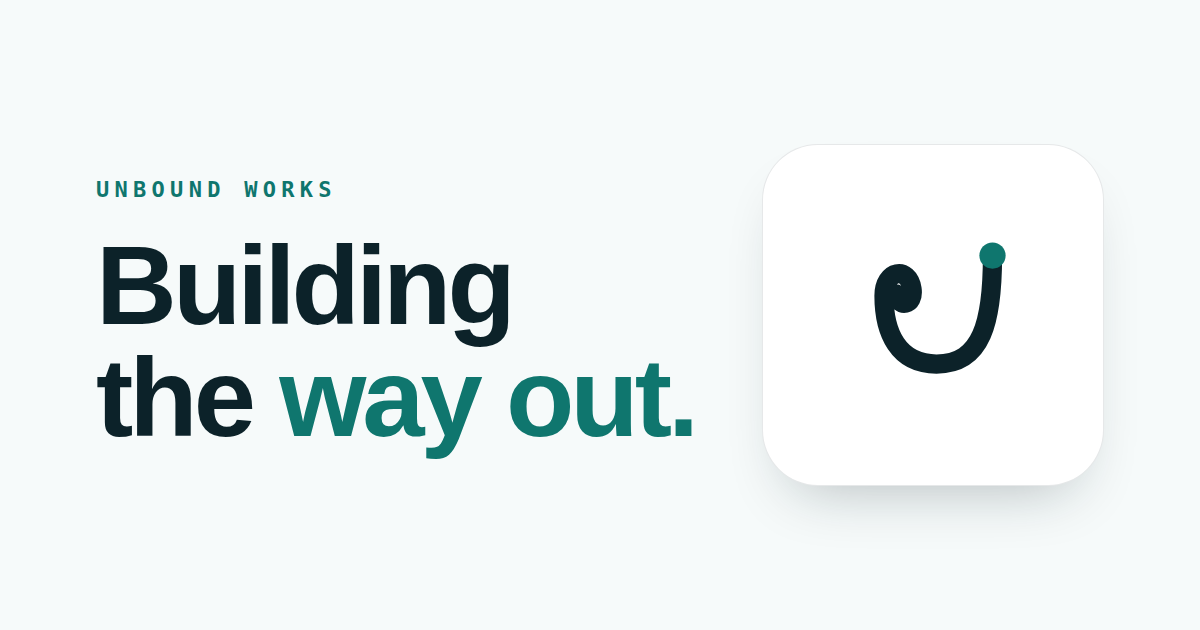
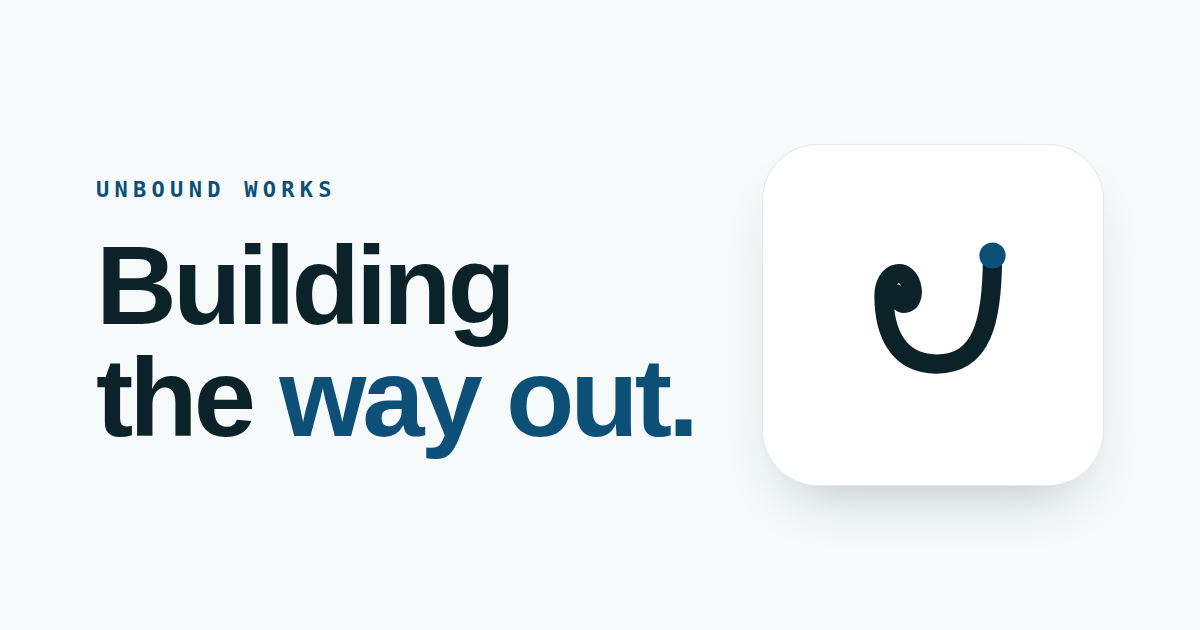
Change accent to rgb(12,80,120)
Claude-Session: https://claude.ai/code/session_01HV6CUxVNmo16z2FbVjRH5F

diff --git a/styles.css b/styles.css
@@ -1,6 +1,6 @@
 /* ============================================================
    Unbound Works — sleek modern revamp
-   Calm precision: cool white, ink, one teal accent. CSS-only motion.
+   Calm precision: cool white, ink, one blue accent. CSS-only motion.
    ============================================================ */
 
 :root{
@@ -15,10 +15,10 @@
   --muted:#5B7076;
 
   /* signal */
-  --accent:#0F766E;        /* medium dark teal */
+  --accent:#0C5078;        /* medium dark blue */
   --accent-ink:#FFFFFF;    /* text on accent fills */
-  --accent-2:#0F766E;      /* labels */
-  --accent-d:#0B5F58;      /* hover */
+  --accent-2:#0C5078;      /* labels */
+  --accent-d:#093E5D;      /* hover */
   --shadow:0 24px 48px -28px rgba(12,34,41,.28);
 
   /* lines + radii */
@@ -58,7 +58,7 @@ img,svg{display:block}
 body::before{
   content:"";position:fixed;inset:0;z-index:-1;pointer-events:none;
   background:
-    radial-gradient(620px 620px at 80% 28%,rgba(15,118,110,.10),transparent 64%);
+    radial-gradient(620px 620px at 80% 28%,rgba(12,80,120,.10),transparent 64%);
 }
 
 /* focus visibility */
@@ -178,7 +178,7 @@ h1{font-size:clamp(3.2rem,8.4vw,6.4rem);line-height:.98;letter-spacing:-.03em}
 }
 .cell::before{ /* hover sheen */
   content:"";position:absolute;inset:0;pointer-events:none;opacity:0;
-  background:linear-gradient(130deg,transparent 40%,rgba(15,118,110,.05) 55%,transparent 70%);
+  background:linear-gradient(130deg,transparent 40%,rgba(12,80,120,.05) 55%,transparent 70%);
   transition:opacity .4s var(--ease);
 }
 .cell:hover{transform:translateY(-5px);border-color:var(--hairline-2);box-shadow:var(--shadow)}
@@ -186,7 +186,7 @@ h1{font-size:clamp(3.2rem,8.4vw,6.4rem);line-height:.98;letter-spacing:-.03em}
 .cell h3{font-size:clamp(1.5rem,2.3vw,1.9rem);line-height:1.1;margin-bottom:12px}
 .cell p{color:var(--ink-soft);font-size:1rem;max-width:46ch}
 .c-soft{grid-column:span 3;background:
-  linear-gradient(155deg,rgba(15,118,110,.12),var(--surface) 70%)}
+  linear-gradient(155deg,rgba(12,80,120,.12),var(--surface) 70%)}
 .c-ai{grid-column:span 3}
 .c-ops{grid-column:span 6;background:
   linear-gradient(120deg,var(--surface-2),var(--surface) 60%)}
@@ -209,10 +209,10 @@ h1{font-size:clamp(3.2rem,8.4vw,6.4rem);line-height:.98;letter-spacing:-.03em}
 .cap-media{
   border-radius:var(--r-card);min-height:280px;position:relative;overflow:hidden;
   border:1px solid var(--hairline);
-  background:linear-gradient(150deg,rgba(15,118,110,.14),var(--surface) 72%);
+  background:linear-gradient(150deg,rgba(12,80,120,.14),var(--surface) 72%);
 }
 .cap.flip .cap-media{background:linear-gradient(150deg,var(--surface-2),var(--surface) 70%)}
-.cap-media.alt{background:linear-gradient(150deg,rgba(15,118,110,.07),var(--surface-2) 70%)}
+.cap-media.alt{background:linear-gradient(150deg,rgba(12,80,120,.07),var(--surface-2) 70%)}
 .cap-media .wm{position:absolute;right:-30px;bottom:-50px;width:250px;opacity:.14}
 .cap-media .wm path{fill:none;stroke:var(--ink);stroke-width:22;stroke-linecap:round;stroke-linejoin:round}
 .worklist{list-style:none;margin-top:26px;display:flex;flex-wrap:wrap;gap:10px}
@@ -293,7 +293,7 @@ h1{font-size:clamp(3.2rem,8.4vw,6.4rem);line-height:.98;letter-spacing:-.03em}
 .contact-card h2{font-size:clamp(2.2rem,4.8vw,3.6rem);line-height:1.04}
 .contact-card p{color:rgba(255,255,255,.85);font-size:1.15rem;margin:20px auto 32px;max-width:46ch;font-family:var(--sans)}
 .contact-card .btn-primary{background:#fff;color:var(--accent);font-size:1.02rem;padding:15px 34px}
-.contact-card .btn-primary:hover{background:#E6F4F2}
+.contact-card .btn-primary:hover{background:#E4EEF6}
 .contact-card .mail{display:block;margin-top:24px;font-family:var(--mono);font-size:14px;letter-spacing:.04em;color:rgba(255,255,255,.8)}
 .contact-card .wm{display:none}
 
